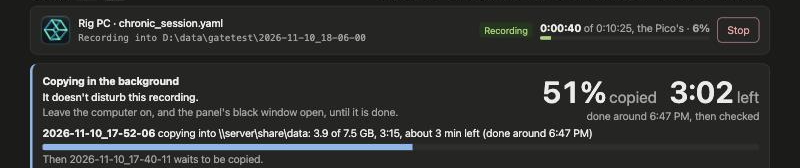
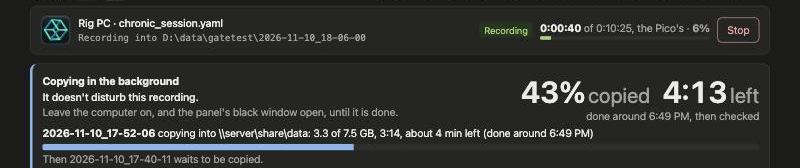
Panel: the copy corner's 'copied' and 'left' larger again

Changed region(s): [[0.625, 0.4762, 0.9688, 0.625], [0.4375, 0.744, 0.75, 0.9226], [0.7188, 0.6548, 0.8438, 0.7143]]

diff --git a/campy/panelpage.py b/campy/panelpage.py
@@ -47,7 +47,7 @@ label{font-size:.9375rem;color:var(--muted)}h2{font-size:1.25rem;font-weight:500
 .copybar{max-width:28rem;margin:4px 0 2px}.copybar div{background:var(--accent)}
 .bgcopy{border-left:4px solid var(--accent)}.copyeta{text-align:right;line-height:1.1;flex:none;min-width:9rem}
 .copyeta .big{font-size:3rem;font-weight:600;font-variant-numeric:tabular-nums;color:var(--text)}.copyeta .big.wait{font-size:1.5rem;font-weight:500}.copyeta .gap{margin-left:1.25rem}
-.copyeta .lab{font-size:1.625rem;color:var(--muted)}#clock b{font-variant-numeric:tabular-nums}.bgcopy .copybar{max-width:none;height:10px}.bgcopy .copybar div{height:10px}
+.copyeta .lab{font-size:2.125rem;color:var(--muted)}#clock b{font-variant-numeric:tabular-nums}.bgcopy .copybar{max-width:none;height:10px}.bgcopy .copybar div{height:10px}
 .err{color:var(--bad);font-size:1rem}ul{margin:.25rem 0 0;padding-left:1.25rem}li{margin:.25rem 0}
 select{font:inherit;padding:.375em .5em;border-radius:8px;border:1px solid var(--line);background:var(--card);color:var(--text);width:100%}
 .steps li{list-style:none;margin-left:-1.25rem}.modal{position:fixed;inset:0;background:rgba(0,0,0,.45);display:flex;align-items:center;justify-content:center;padding:1rem}
